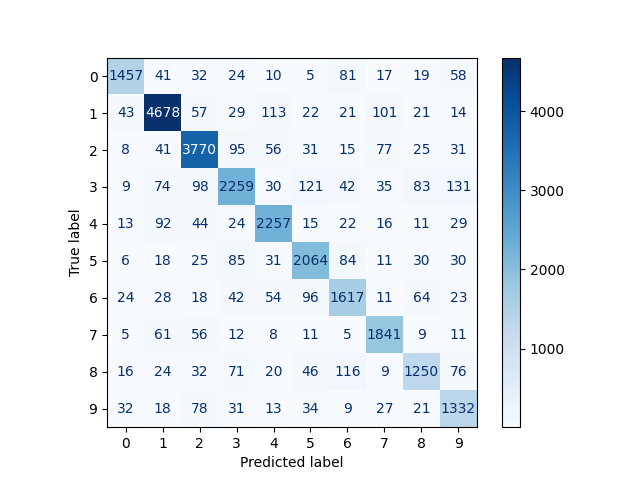
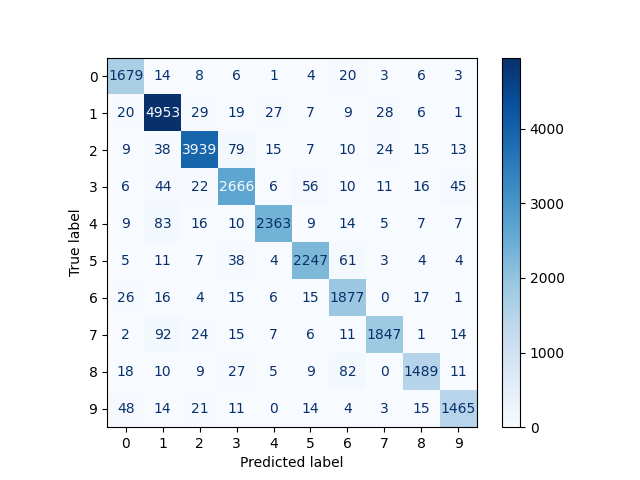
Add: spec for ResNet

diff --git a/model.py b/model.py
@@ -3,25 +3,25 @@ import torch.nn as nn
 import torch.nn.functional as F
 
 class VanillaCNN(nn.Module):
-    def __init__(self, in_channels: int, kernel: tuple, stride: int, padding):
+    def __init__(self, in_channels: int, out_channels: int, kernel: tuple, stride: int, padding):
         super().__init__()
         self.conv1 = nn.Conv2d(
             in_channels=in_channels,
-            out_channels=32,
+            out_channels=out_channels,
             kernel_size=kernel,
             stride=stride,
             padding=padding
         )
         self.conv2 = nn.Conv2d(
-            in_channels=32,
-            out_channels=64,
+            in_channels=out_channels,
+            out_channels=out_channels,
             kernel_size=kernel,
             stride=stride,
             padding=padding
         )
         self.pool = nn.MaxPool2d(2, 2)
         self.relu = nn.ReLU()
-        self.fc = nn.Linear(64 * 8 * 8, 10)
+        self.fc = nn.Linear(32 * 8 * 8, 10)
 
     def forward(self, x):
         x = self.relu(self.conv1(x))
@@ -31,11 +31,69 @@ class VanillaCNN(nn.Module):
         x = torch.flatten(x, 1)
         return self.fc(x)
 
+# class ResNet(nn.Module):
 
-class ResNet(nn.Module):
-    def __init__(self, *args, **kwargs):
-        super().__init__(*args, **kwargs)
+class ResidualBlocks(nn.Module):
+    def __init__(self, in_channels: int, out_channels: int, kernel, stride, padding):
+        super(ResidualBlocks, self).__init__()
+
+        self.conv1 = nn.Conv2d(
+            in_channels=in_channels,
+            out_channels=out_channels,
+            kernel_size=kernel,
+            stride=stride,
+            padding=padding
+        )
+
+        self.bn1 = nn.BatchNorm2d(out_channels)
+
+        self.conv2 = nn.Conv2d(out_channels, out_channels, kernel_size=kernel, stride=1, padding=padding)
+        self.bn2 = nn.BatchNorm2d(out_channels)
+
+        self.sc = nn.Sequential()
+        if stride != 1 or in_channels != out_channels:
+            self.sc = nn.Sequential(
+                nn.Conv2d(in_channels, out_channels, kernel_size=1, stride=stride),
+                nn.BatchNorm2d(out_channels)
+            )
 
     def forward(self, x):
-        out = None
+        out = F.relu(self.bn1(self.conv1(x)))
+        out = self.bn2(self.conv2(out))
+        out += self.sc(x)
+        out = F.relu(out)
+        return out
+    
+
+class ResNet(nn.Module):
+    def __init__(self, block, num_blocks, num_classes=10):
+        super(ResNet, self).__init__()
+        self.in_channels = 64
+
+        self.conv1 = nn.Conv2d(3, 64, kernel_size=3, stride=1, padding=1)
+        self.bn1 = nn.BatchNorm2d(64)
+        self.layer1 = self._make_layer(block, 64, num_blocks[0], stride=1)
+        self.layer2 = self._make_layer(block, 128, num_blocks[1], stride=2)
+        self.layer3 = self._make_layer(block, 256, num_blocks[2], stride=2)
+        self.layer4 = self._make_layer(block, 512, num_blocks[3], stride=2)
+        self.linear = nn.Linear(512, num_classes)
+
+    def _make_layer(self, block, planes, num_blocks, stride):
+        strides = [stride] + [1]*(num_blocks-1)
+        layers = []
+        for s in strides:
+            layers.append(block(self.in_channels, planes, kernel=3, stride=s, padding=1))
+            self.in_channels = planes
+
+        return nn.Sequential(*layers)
+
+    def forward(self, x):
+        out = F.relu(self.bn1(self.conv1(x)))
+        out = self.layer1(out)
+        out = self.layer2(out)
+        out = self.layer3(out)
+        out = self.layer4(out)
+        out = F.avg_pool2d(out, 4)
+        out = out.view(out.size(0), -1)
+        out = self.linear(out)
         return out

diff --git a/run.py b/run.py
@@ -1,7 +1,7 @@
 import torch
 import yaml
 from preprocess import SVHNDataset
-from model import VanillaCNN
+from model import VanillaCNN, ResNet, ResidualBlocks
 import torch.nn as nn
 import torch.nn.functional as F
 from torch.optim import Adam
@@ -24,6 +24,7 @@ from sklearn.metrics import (
     ConfusionMatrixDisplay
 )
 from sklearn.preprocessing import label_binarize 
+
 
 load_dotenv()
 
@@ -61,10 +62,13 @@ def build_model(config: dict):
     if model_name == 'VanillaCNN':
         return VanillaCNN(
             in_channels=config['model_config']['in_channels'],
+            out_channels=config['model_config']['out_channels'],
             kernel=config['model_config']['kernel'],
             stride=config['model_config']['stride'],
             padding=config['model_config']['padding']
         )
+    elif model_name == 'ResNet':
+        return ResNet(ResidualBlocks, [2, 2, 2, 2], num_classes=10)
     else:
         raise ValueError(f"Not a valid model.")
 
